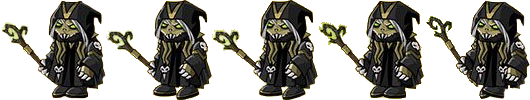
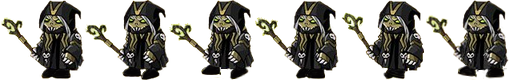
necromancer added attack place

diff --git a/src/gameApp/monsters/Necromancer.ts b/src/gameApp/monsters/Necromancer.ts
@@ -2,6 +2,8 @@ import {ImageHandler} from '../ImageHandler';
 
 import {AudioSystem} from '../gameSystems/AudioSystem';
 
+import {Building} from '../buildings/Building';
+
 import {Monster} from './Monster';
 
 import {Helper} from '../helpers/Helper';
@@ -28,9 +30,15 @@ export class Necromancer extends Monster{
 	private static readonly imageFrames = 6;
 
 	private static readonly attackImage: HTMLImageElement = new Image();  //атака монстра
-	private static readonly attackImageFrames = 5;
+	private static readonly attackImageFrames = 6;
+
+	private static readonly maxDistanceDamage = 450; //(px) Макс Дистанция до ближайшего строения - цели, при котором активируется атака
+	private static readonly minDistanceDamage = 300; //(px) Мин Дистанция до ближайшего строения - цели, при котором активируется атака
+	private _attackXStart: number; //координата x на которой будет активирована атака
 
 	constructor(x: number, y: number, isLeftSide: boolean, scaleSize: number) {
+		Necromancer.init(true); //reserve init
+
 		super(x, y,
 			scaleSize,
 			isLeftSide,
@@ -50,7 +58,8 @@ export class Necromancer extends Monster{
 			Necromancer.imageHandler,
 			7000); //avrTimeSoundWaitMs
 
-			Necromancer.init(true); //reserve init
+		this._attackXStart = 0;
+
 	}
 
 	static init(isLoadResources: boolean = true): void{
@@ -59,6 +68,33 @@ export class Necromancer extends Monster{
 			
 			Necromancer.imageHandler.new(Necromancer.attackImage).src = NecromancerAttack1Image;
 		}
+	}
+
+	logic(drawsDiffMs: number, buildings: Building[], monsters: Monster[], bottomBorder: number) {
+		if(!this.imageHandler.isImagesCompleted){
+			return;
+		}
+
+		//активация атаки
+		if(this._buildingGoal && this._attackXStart)
+		{
+			if ( this.isLeftSide && this.centerX >= this._attackXStart || 
+				!this.isLeftSide && this.centerX <= this._attackXStart)
+			{
+				this._isAttack = true; //атакует
+				//TODO: create green magic ball
+				return; //игнорируем базовую логику движения и атаки
+			}
+		}
+
+		var oldBuildingGoalX = this._buildingGoal?.centerX;
+		super.logic(drawsDiffMs, buildings, monsters, bottomBorder);
+		var newBuildingGoalX = this._buildingGoal?.centerX;
+
+		if(newBuildingGoalX && oldBuildingGoalX != newBuildingGoalX){
+			this._attackXStart = newBuildingGoalX - (this.isLeftSide ? 1 : -1) * Helper.getRandom(Necromancer.minDistanceDamage, Necromancer.maxDistanceDamage) 
+		}
+
 	}
 
 	/*playSound(): void {

diff --git a/src/reactApp/pages/Test/TestPage.tsx b/src/reactApp/pages/Test/TestPage.tsx
@@ -819,6 +819,44 @@ class TestPage extends React.Component {
         },
 
         {
+            key: "Некромант - расстояние срабатывания атаки",
+            code: () => {
+                App.Store.dispatch(MenuStore.actionCreators.startGame());
+                Game.startNew();
+                Waves.delayEndLeftTimeMs = Waves.delayStartLeftTimeMs = 0;
+                Waves.all = [ //монстры на волнах
+                    { //1-я волна
+                        //[Zombie.name]: new WaveData(7, 80, 0),
+                        [Necromancer.name]: new WaveData(1, 60, 6)
+                    },
+                    { //2-я волна
+                        [Necromancer.name]: new WaveData(15, 10, 0)
+                    }];
+
+                var barricade1 = new Barricade(600);
+                barricade1.loadedResourcesAfterBuild();
+                Buildings.all.push(barricade1);
+
+                var tower1 = new Tower(700);
+                tower1.loadedResourcesAfterBuild();
+                Buildings.all.push(tower1);
+
+                for(var i = 0; i < 10; i++){
+                    var monster = new Necromancer(0, 780, true, 1);
+                    monster.health--;
+                    Monsters.all.push(monster);
+                }
+
+                for(var i = 0; i < 10; i++){
+                    var monster = new Necromancer(1780, 780, false, 1);
+                    monster.health--;
+                    Monsters.all.push(monster);
+                }
+                Buildings.all.forEach(x => x.healthMax = x.health = 400);
+            }
+        },
+
+        {
             key: "Image Handler, loading images, waiting images",
             code: () => { 
                 App.Store.dispatch(MenuStore.actionCreators.startGame());
